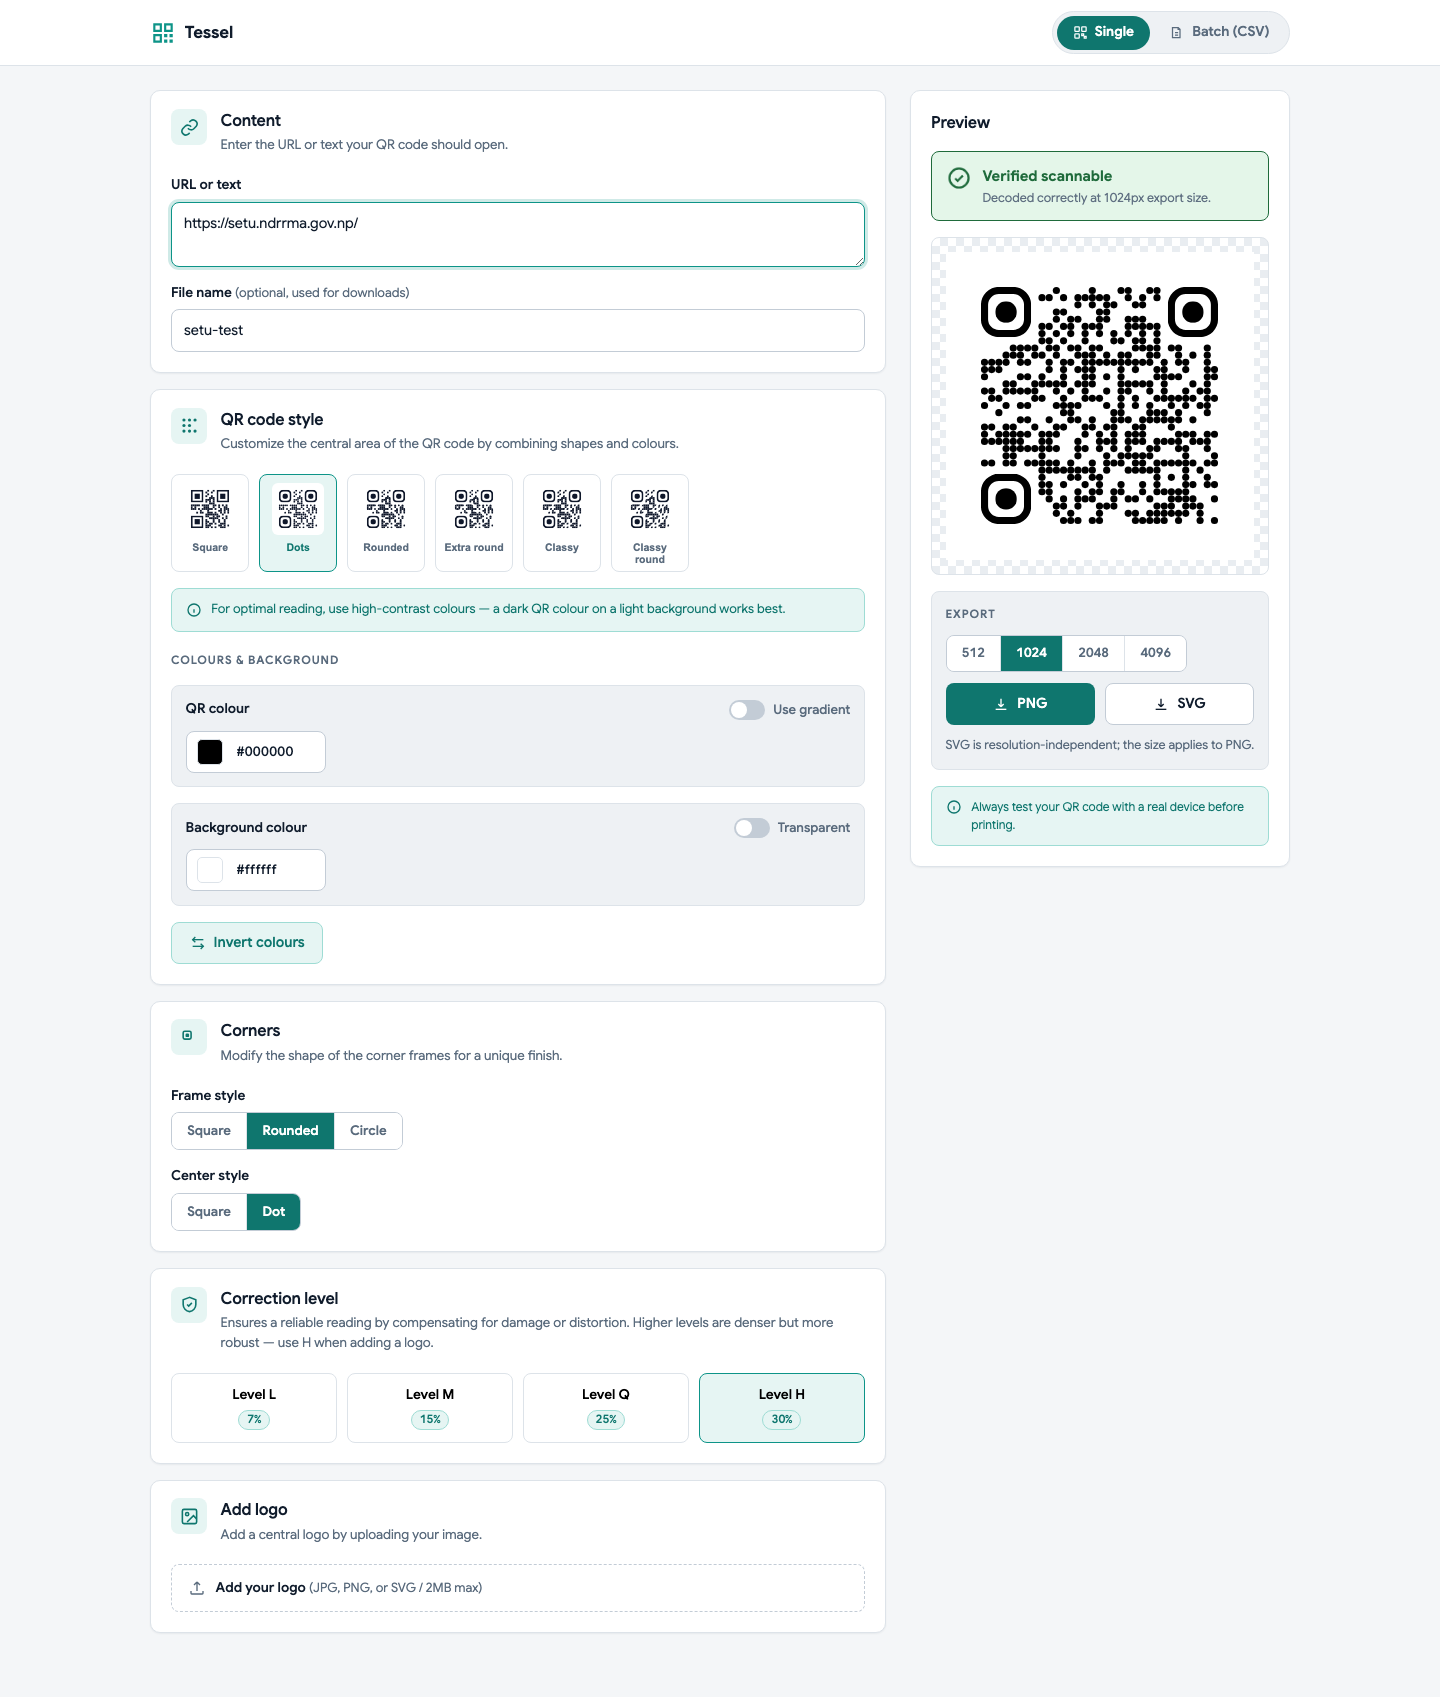
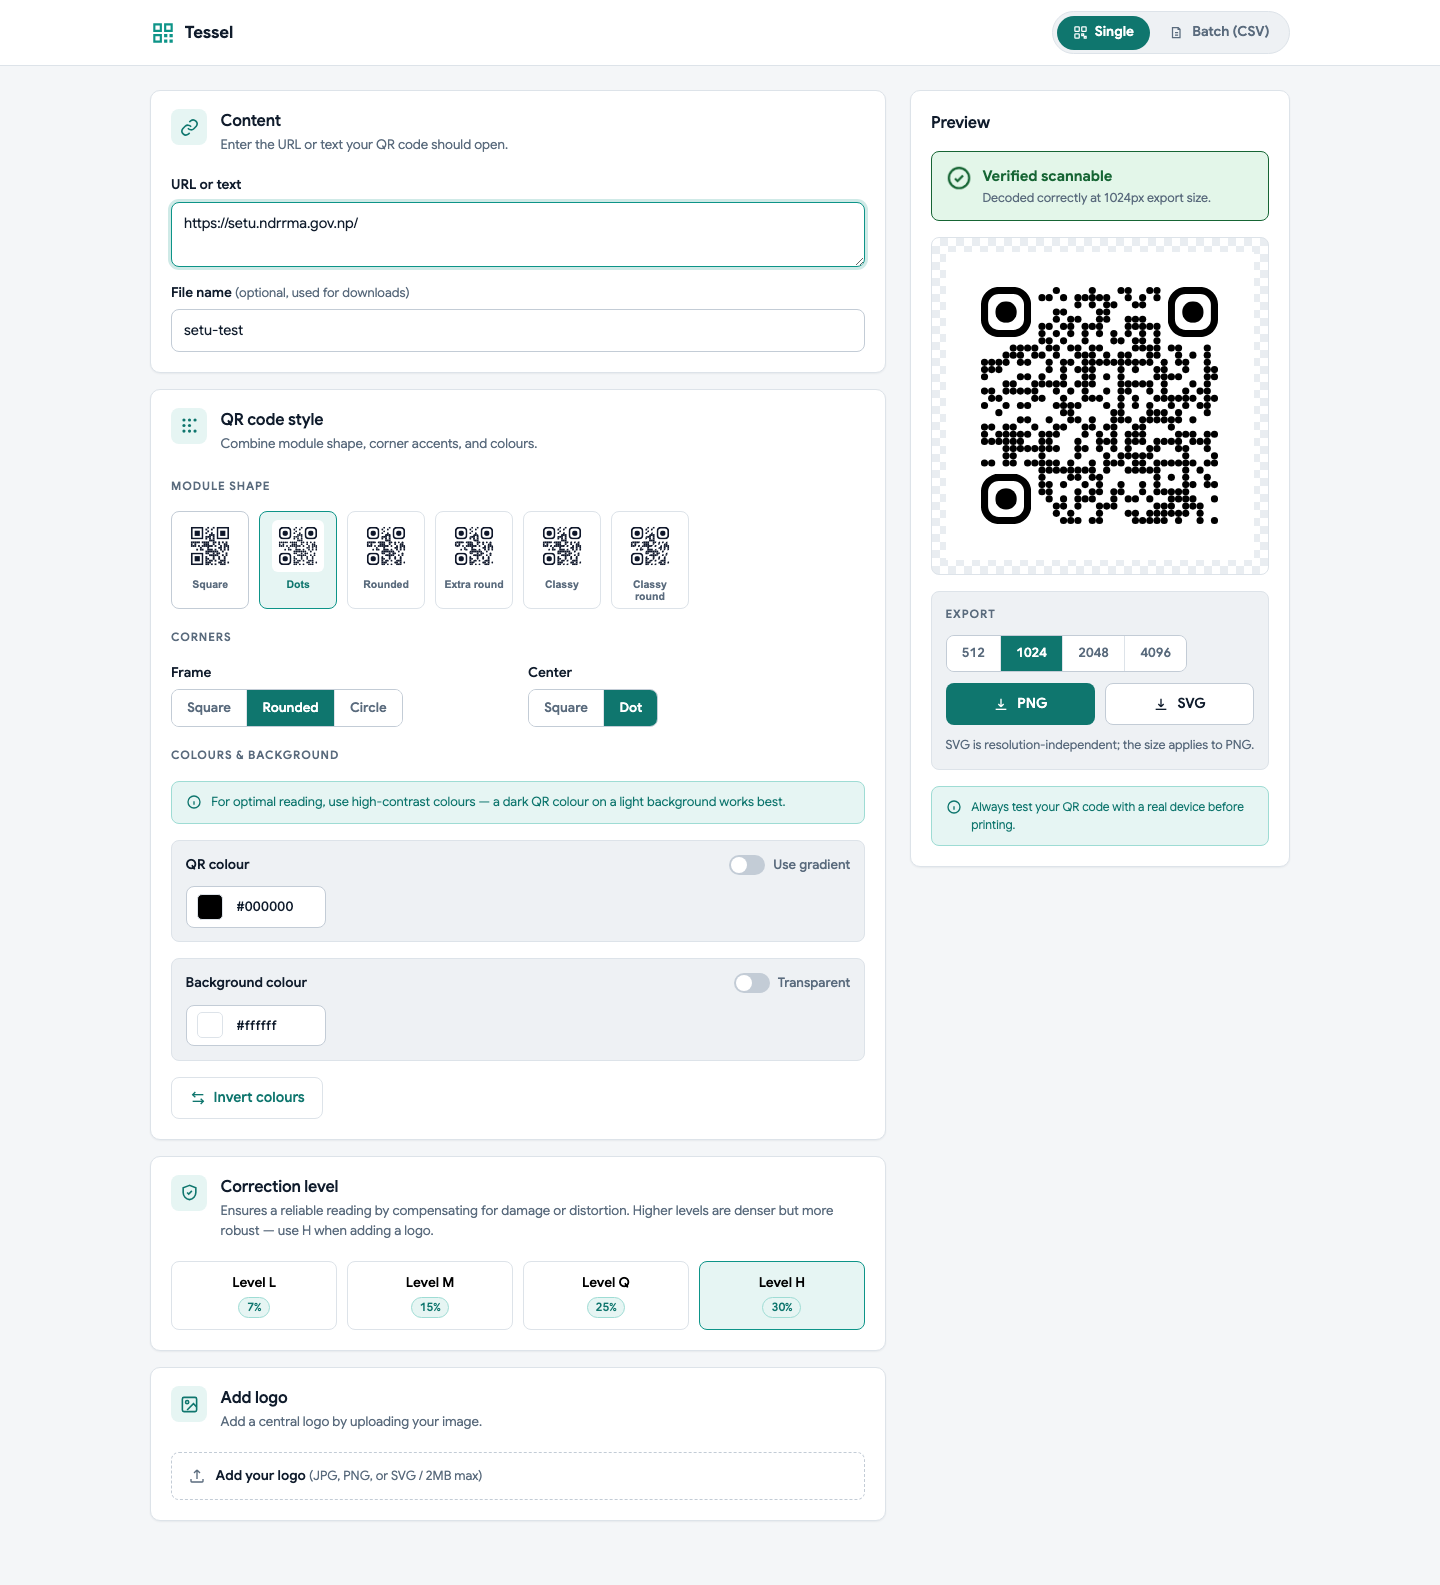
UX: merge Corners into the QR style card, dedupe naming
Geometry is one mental model — the form now flows module shape →
corners → colours inside a single card instead of reopening shape
decisions after colours. Sub-labels drop the repeated word "style"
(Frame/Center), and the contrast notice moves next to the colour
controls it advises on.

diff --git a/index.html b/index.html
@@ -128,18 +128,38 @@
           </div>
           <div>
             <h2>QR code style</h2>
-            <p>Customize the central area of the QR code by combining shapes and colours.</p>
+            <p>Combine module shape, corner accents, and colours.</p>
           </div>
         </div>
         <div class="card-body">
+          <h3 class="subheading">Module shape</h3>
           <div class="style-grid" id="dot-style-grid" role="radiogroup" aria-label="Module shape"></div>
+
+          <h3 class="subheading">Corners</h3>
+          <div class="field-row">
+            <div class="field">
+              <span class="label">Frame</span>
+              <div class="segmented" id="corner-square-style" role="radiogroup" aria-label="Corner frame">
+                <button type="button" class="seg-btn" role="radio" aria-checked="false" data-value="square">Square</button>
+                <button type="button" class="seg-btn active" role="radio" aria-checked="true" data-value="extra-rounded">Rounded</button>
+                <button type="button" class="seg-btn" role="radio" aria-checked="false" data-value="dot">Circle</button>
+              </div>
+            </div>
+            <div class="field">
+              <span class="label">Center</span>
+              <div class="segmented" id="corner-dot-style" role="radiogroup" aria-label="Corner center">
+                <button type="button" class="seg-btn" role="radio" aria-checked="false" data-value="square">Square</button>
+                <button type="button" class="seg-btn active" role="radio" aria-checked="true" data-value="dot">Dot</button>
+              </div>
+            </div>
+          </div>
+
+          <h3 class="subheading">Colours &amp; background</h3>
 
           <div class="notice">
             <svg viewBox="0 0 24 24" fill="none" stroke="currentColor" stroke-width="2" aria-hidden="true"><circle cx="12" cy="12" r="9"/><path d="M12 8h.01M12 11v5"/></svg>
             <span>For optimal reading, use high-contrast colours — a dark QR colour on a light background works best.</span>
           </div>
-
-          <h3 class="subheading">Colours &amp; background</h3>
 
           <div class="color-block">
             <div class="color-block-head">
@@ -183,36 +203,6 @@
             <svg viewBox="0 0 24 24" fill="none" stroke="currentColor" stroke-width="2" aria-hidden="true"><path d="M8 3 4 7l4 4"/><path d="M4 7h16"/><path d="m16 21 4-4-4-4"/><path d="M20 17H4"/></svg>
             Invert colours
           </button>
-        </div>
-      </section>
-
-      <!-- Corners -->
-      <section class="card">
-        <div class="card-head">
-          <div class="card-head-icon">
-            <svg viewBox="0 0 24 24" fill="none" stroke="currentColor" stroke-width="2" aria-hidden="true"><rect x="4" y="4" width="10" height="10" rx="2"/><rect x="8" y="8" width="2.5" height="2.5" rx="0.5" fill="currentColor"/></svg>
-          </div>
-          <div>
-            <h2>Corners</h2>
-            <p>Modify the shape of the corner frames for a unique finish.</p>
-          </div>
-        </div>
-        <div class="card-body">
-          <div class="field">
-            <span class="label">Frame style</span>
-            <div class="segmented" id="corner-square-style" role="radiogroup" aria-label="Corner frame style">
-              <button type="button" class="seg-btn" role="radio" aria-checked="false" data-value="square">Square</button>
-              <button type="button" class="seg-btn active" role="radio" aria-checked="true" data-value="extra-rounded">Rounded</button>
-              <button type="button" class="seg-btn" role="radio" aria-checked="false" data-value="dot">Circle</button>
-            </div>
-          </div>
-          <div class="field">
-            <span class="label">Center style</span>
-            <div class="segmented" id="corner-dot-style" role="radiogroup" aria-label="Corner center style">
-              <button type="button" class="seg-btn" role="radio" aria-checked="false" data-value="square">Square</button>
-              <button type="button" class="seg-btn active" role="radio" aria-checked="true" data-value="dot">Dot</button>
-            </div>
-          </div>
         </div>
       </section>
 
